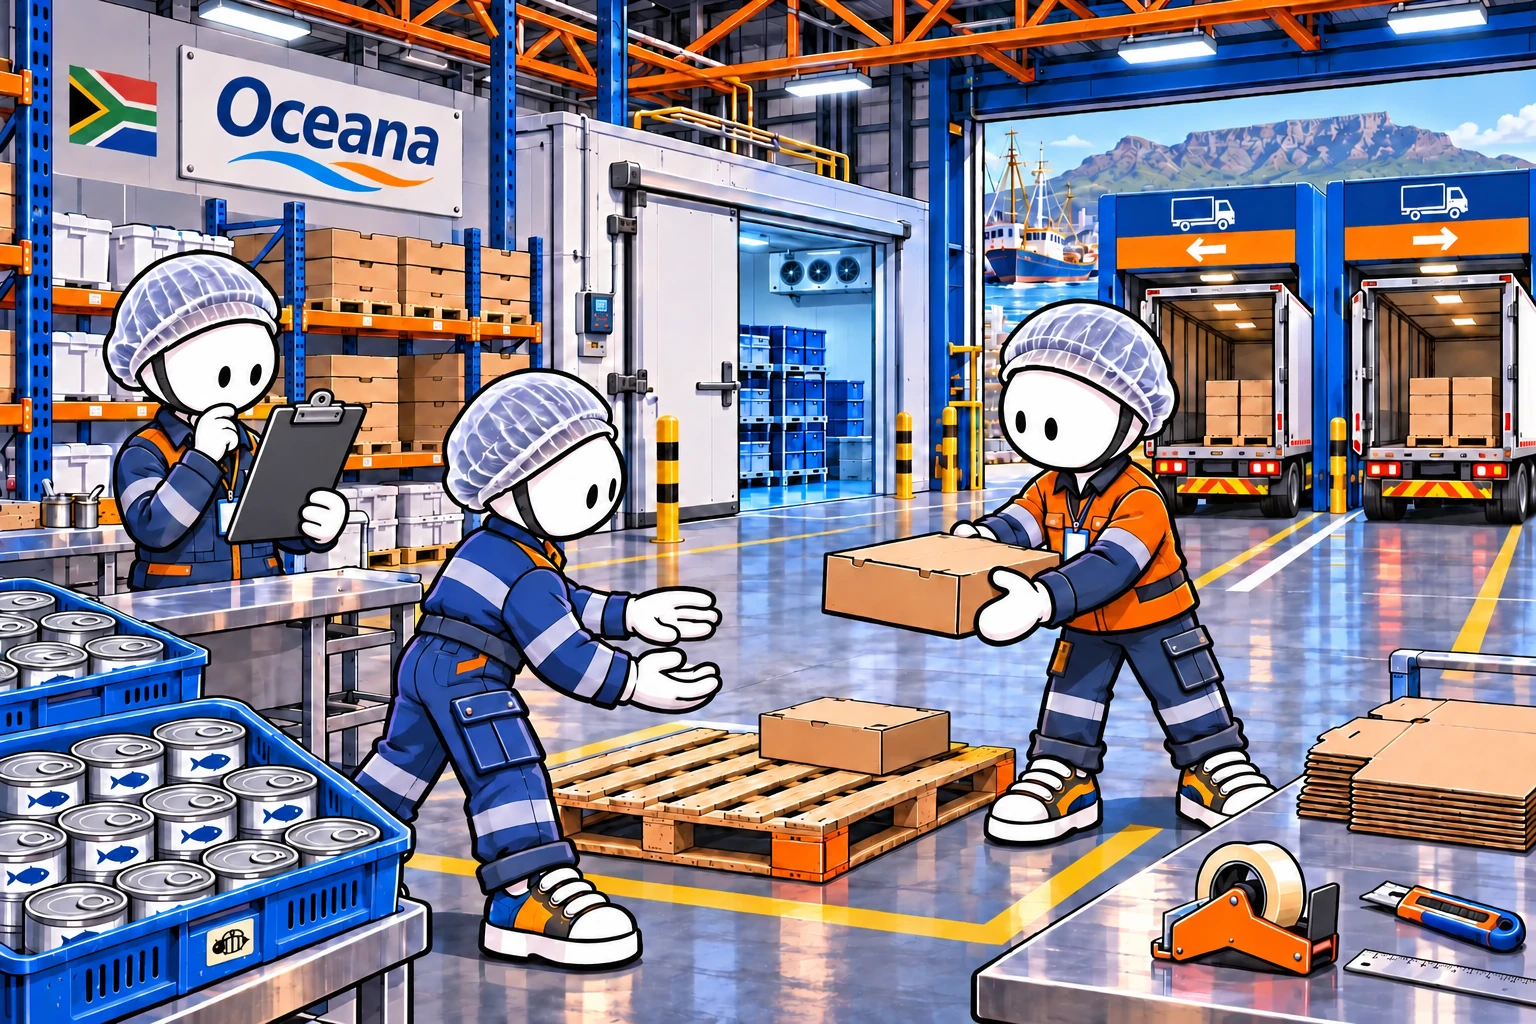
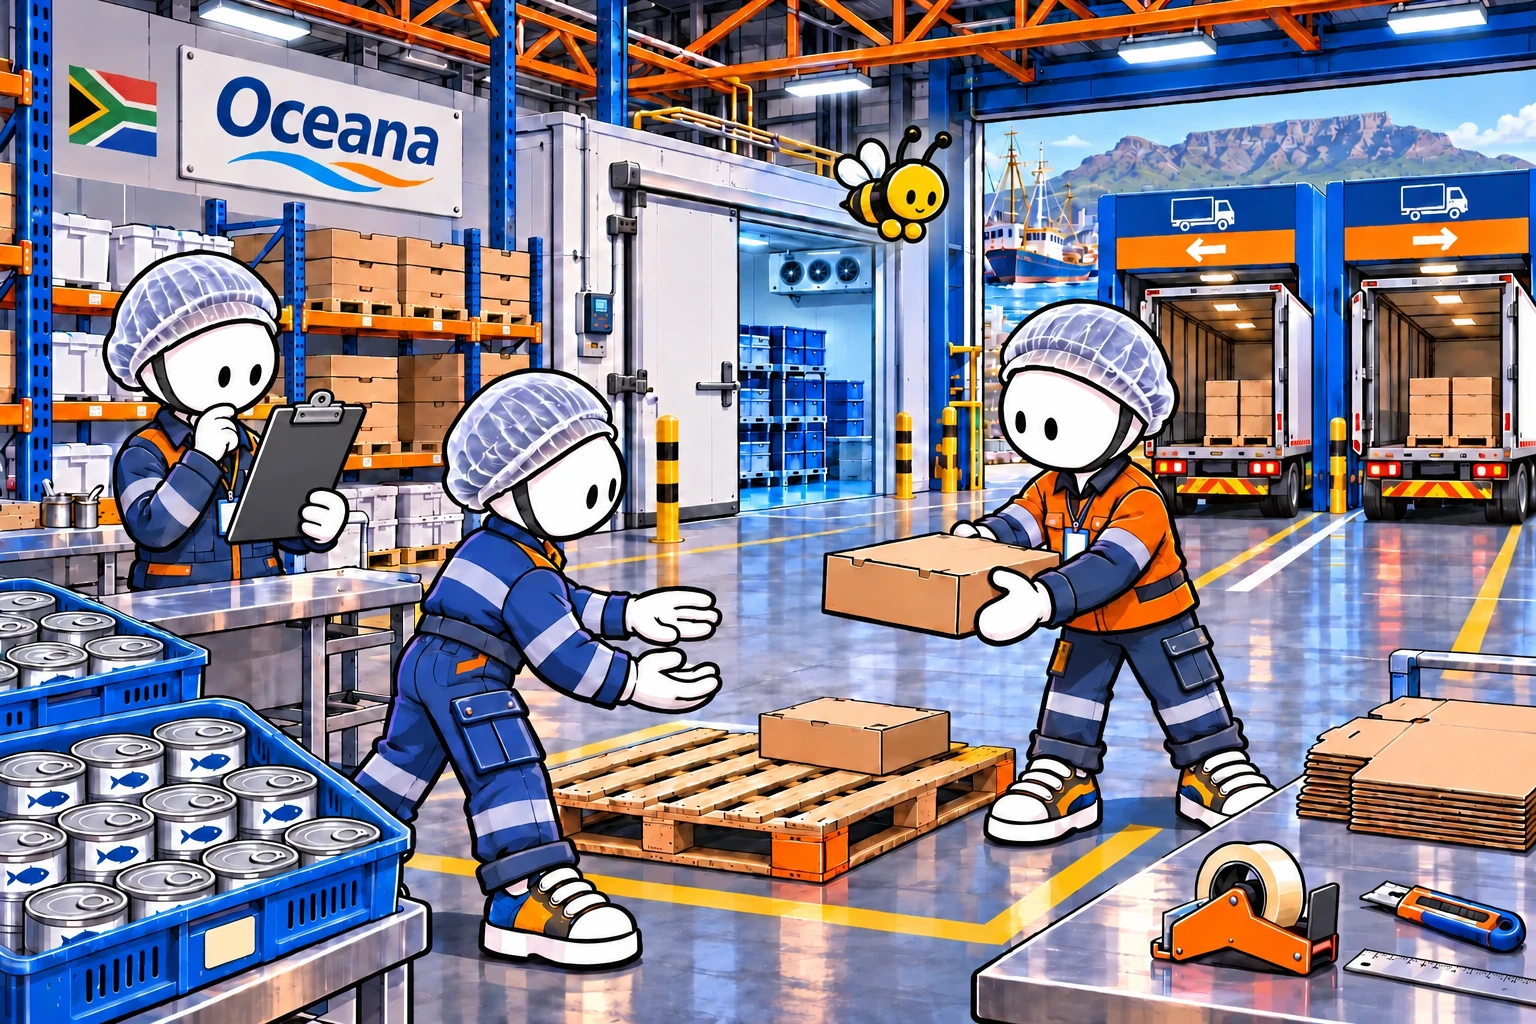
Restore the living observer bee throughout Issue 05 illustrations

diff --git a/docs/editorial-format.md b/docs/editorial-format.md
@@ -43,6 +43,8 @@ Use clear US English, concrete verbs and industry terms explained on first use. 
 
 Retain the bee identity, system fonts, bright palettes and rounded layouts. White cartoon characters act out each story, with no frame around the illustration itself. Company marks provide editorial context, never an implied endorsement. Motion is optional and respects reduced-motion preferences.
 
+Story illustrations include one small living bee watching the characters work from above. Use the established character seen in the issue 02 and 03 closing scenes: a round yellow face, black oval eyes, a small smile, round-tipped antennae, a striped body, white loop-shaped wings and little yellow feet. Vary its perch or hovering pose to fit the scene, with its attention directed toward the activity. Keep it secondary to the story. The bee is a character in the scene; the masthead retains its existing logo. Check left and right hands, physical contact with props and the reading direction of working documents after every image edit.
+
 ## Evidence and release workflow
 
 1. Collect primary sources and record original publication date, event date, country, claim and limits.
